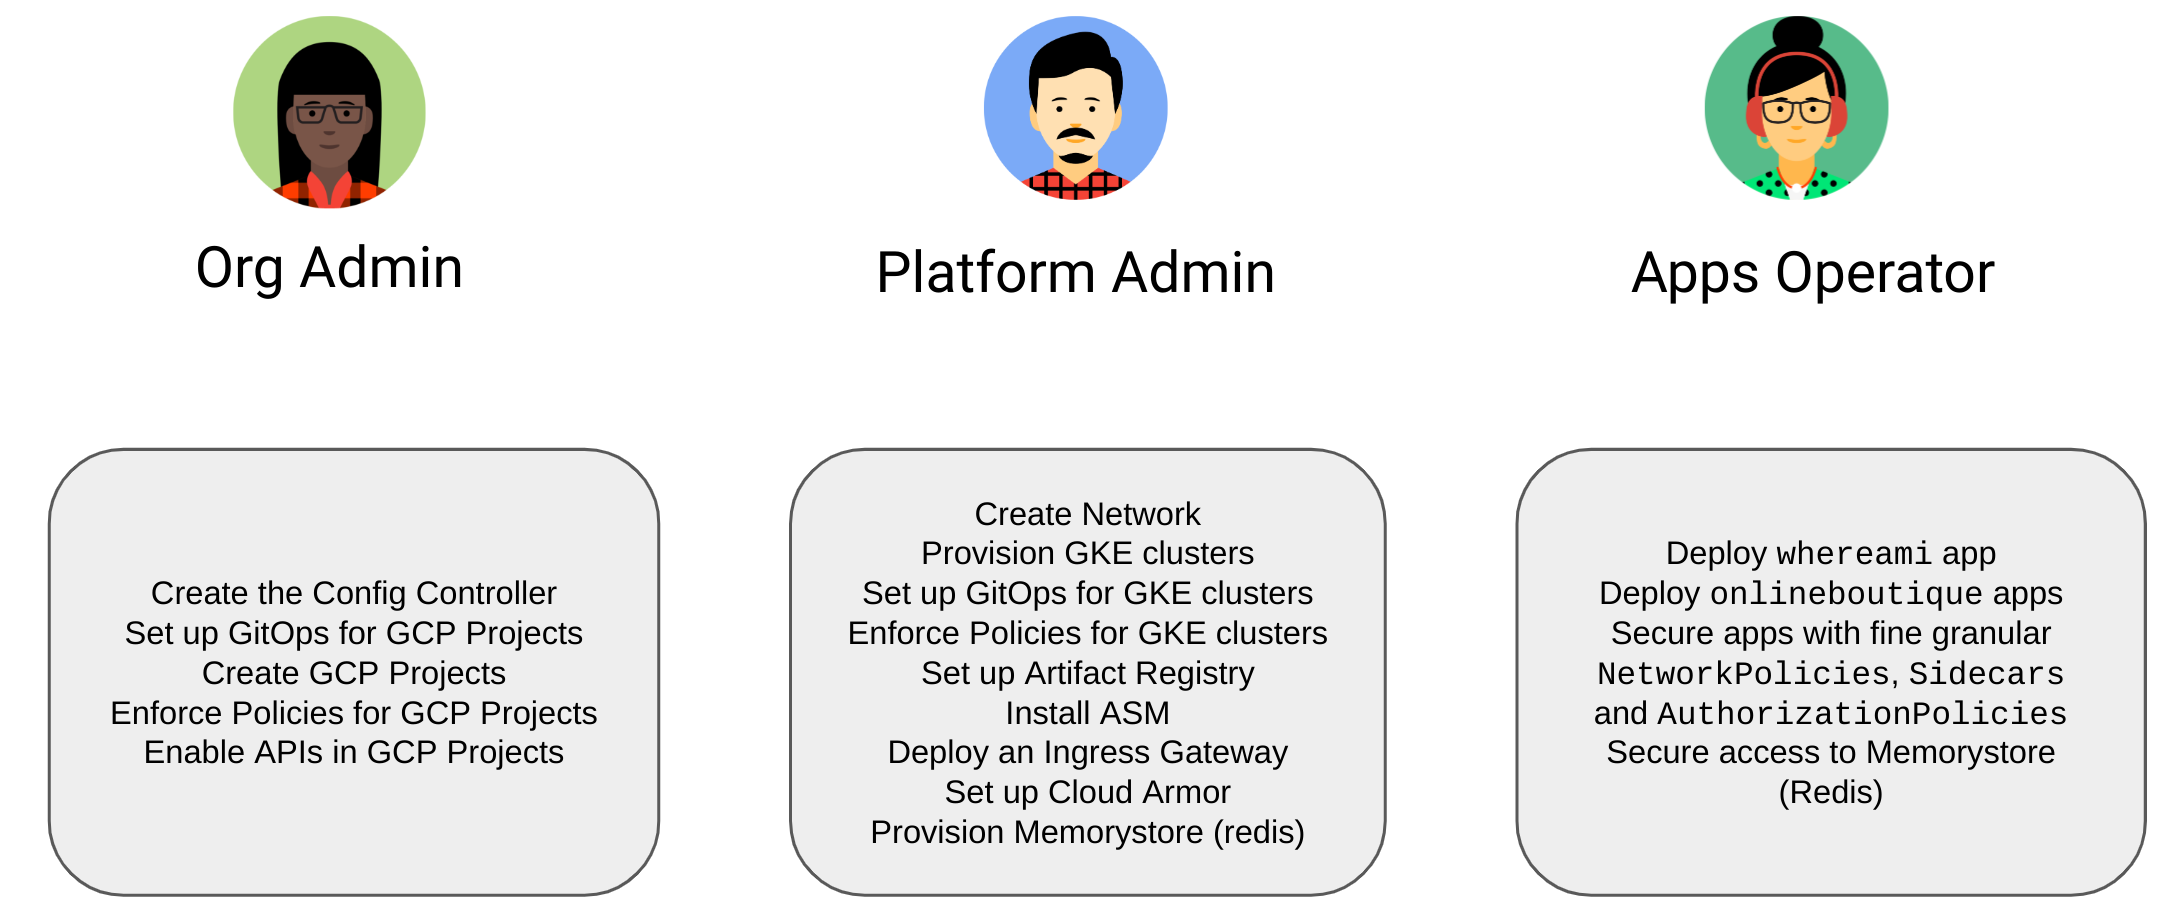
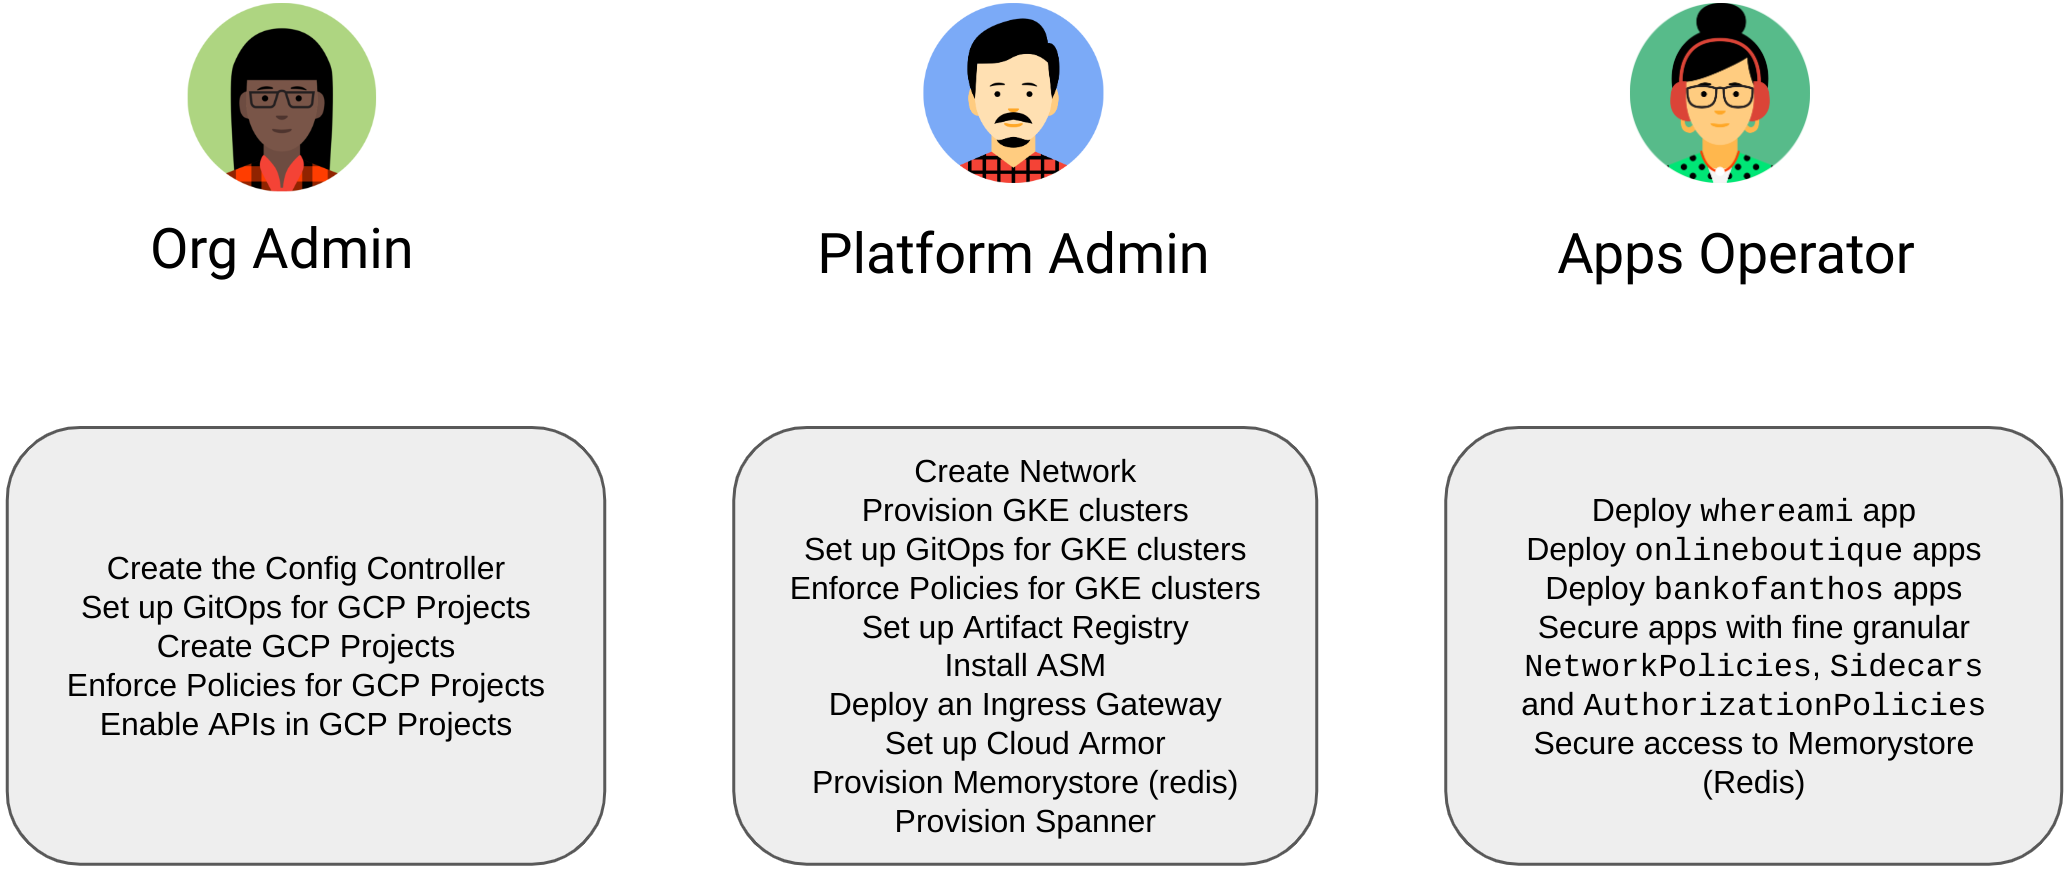
Allo and Create spanner sections

diff --git a/content/onlineboutique/create-spanner.md b/content/onlineboutique/create-spanner.md
@@ -1,0 +1,136 @@
+---
+title: "Create Spanner"
+weight: 14
+description: "Duration: 10 min | Persona: Platform Admin"
+tags: ["kcc", "platform-admin"]
+---
+![Platform Admin](/images/platform-admin.png)
+_{{< param description >}}_
+
+In this section, you will create a Spanner instance and database for the Online Boutique's `cartservice` app to connect to.
+
+Initialize variables:
+```Bash
+WORK_DIR=~/
+source ${WORK_DIR}acm-workshop-variables.sh
+echo "export SPANNER_INSTANCE_NAME=onlineboutique" >> ${WORK_DIR}acm-workshop-variables.sh
+echo "export SPANNER_DATABASE_NAME=carts" >> ${WORK_DIR}acm-workshop-variables.sh
+source ${WORK_DIR}acm-workshop-variables.sh
+```
+
+Create (if not yet existing) a folder dedicated for any resources related Online Boutique specifically: 
+```Bash
+mkdir -p ${WORK_DIR}$TENANT_PROJECT_DIR_NAME/$ONLINEBOUTIQUE_NAMESPACE
+```
+
+## Define Spanner instance
+
+Define the [Spanner instance resource](https://cloud.google.com/config-connector/docs/reference/resource-docs/spanner/spannerinstance):
+```Bash
+cat <<EOF > ${WORK_DIR}$TENANT_PROJECT_DIR_NAME/$ONLINEBOUTIQUE_NAMESPACE/spanner-instance.yaml
+apiVersion: spanner.cnrm.cloud.google.com/v1beta1
+kind: SpannerInstance
+metadata:
+  name: ${SPANNER_INSTANCE_NAME}
+  namespace: ${TENANT_PROJECT_ID}
+spec:
+  config: regional-${GKE_LOCATION}
+  displayName: ${SPANNER_INSTANCE_NAME} spanner instance
+  numNodes: 2
+EOF
+```
+
+## Define Spanner database
+
+Define the [Spanner database resource](https://cloud.google.com/config-connector/docs/reference/resource-docs/spanner/spannerdatabase):
+```Bash
+cat <<EOF > ${WORK_DIR}$TENANT_PROJECT_DIR_NAME/$ONLINEBOUTIQUE_NAMESPACE/spanner-database.yaml
+apiVersion: spanner.cnrm.cloud.google.com/v1beta1
+kind: SpannerDatabase
+metadata:
+  name: ${SPANNER_DATABASE_NAME}
+  namespace: ${TENANT_PROJECT_ID}
+  annotations:
+    config.kubernetes.io/depends-on: spanner.cnrm.cloud.google.com/namespaces/${TENANT_PROJECT_ID}/SpannerInstance/${SPANNER_INSTANCE_NAME}
+spec:
+  instanceRef:
+    name: ${SPANNER_INSTANCE_NAME}
+  databaseDialect: GOOGLE_STANDARD_SQL
+  ddl:
+  - "CREATE TABLE CartItems (userId STRING(1024), productId STRING(1024), quantity INT64,) PRIMARY KEY (userId, productId)"
+  - "CREATE INDEX CartItemsByUserId ON CartItems(userId)"
+EOF
+```
+
+## Grant the `cartservice`'s service account access to the Spanner database
+
+```Bash
+cat <<EOF > ${WORK_DIR}$TENANT_PROJECT_DIR_NAME/$ONLINEBOUTIQUE_NAMESPACE/spanner-db-user-service-account.yaml
+apiVersion: iam.cnrm.cloud.google.com/v1beta1
+kind: IAMServiceAccount
+metadata:
+  name: spanner-db-user
+  namespace: ${TENANT_PROJECT_ID}
+spec:
+  displayName: spanner-db-user
+EOF
+```
+
+```Bash
+cat <<EOF > ${WORK_DIR}$HOST_PROJECT_DIR_NAME/projects/$TENANT_PROJECT_ID/workload-identity-user.yaml
+apiVersion: iam.cnrm.cloud.google.com/v1beta1
+kind: IAMPartialPolicy
+metadata:
+  name: ${TENANT_PROJECT_ID}-sa-wi-user
+  namespace: config-control
+  annotations:
+    config.kubernetes.io/depends-on: iam.cnrm.cloud.google.com/namespaces/config-control/IAMServiceAccount/${TENANT_PROJECT_ID}
+spec:
+  resourceRef:
+    name: ${TENANT_PROJECT_ID}
+    kind: IAMServiceAccount
+  bindings:
+    - role: roles/iam.workloadIdentityUser
+      members:
+        - member: serviceAccount:${HOST_PROJECT_ID}.svc.id.goog[cnrm-system/cnrm-controller-manager-${TENANT_PROJECT_ID}]
+EOF
+```
+
+## Deploy Kubernetes manifests
+
+```Bash
+cd ${WORK_DIR}$TENANT_PROJECT_DIR_NAME/
+git add . && git commit -m "Spanner instance and database" && git push origin main
+```
+
+## Check deployments
+
+{{< mermaid >}}
+graph TD;
+  SpannerInstance-.->Project
+  SpannerDatabase-->SpannerInstance
+{{< /mermaid >}}
+
+List the Kubernetes resources managed by Config Sync in **Config Controller** for the **Tenant project configs** repository:
+```Bash
+gcloud alpha anthos config sync repo describe \
+    --project $HOST_PROJECT_ID \
+    --managed-resources all \
+    --sync-name repo-sync \
+    --sync-namespace $TENANT_PROJECT_ID
+```
+Wait and re-run this command above until you see `"status": "SYNCED"`. All the `managed_resources` listed should have `STATUS: Current` as well.
+
+List the GitHub runs for the **Tenant project configs** repository:
+```Bash
+cd ${WORK_DIR}$TENANT_PROJECT_DIR_NAME && gh run list
+```
+
+List the Google Cloud resources created:
+```Bash
+gcloud spanner instances list \
+    --project=$TENANT_PROJECT_ID
+gcloud spanner databases list \
+    --instance $SPANNER_INSTANCE_NAME \
+    --project=$TENANT_PROJECT_ID
+```

diff --git a/content/onlineboutique/allow-spanner.md b/content/onlineboutique/allow-spanner.md
@@ -1,0 +1,100 @@
+---
+title: "Allow Spanner"
+weight: 13
+description: "Duration: 5 min | Persona: Org Admin"
+tags: ["kcc", "org-admin"]
+---
+![Org Admin](/images/org-admin.png)
+_{{< param description >}}_
+
+In this section, you will enable and grant the appropriate APIs in the Tenant project and the IAM role for the Tenant project's service account. This will allow later this service account to provision a Spanner instance.
+
+Initialize variables:
+```Bash
+WORK_DIR=~/
+source ${WORK_DIR}acm-workshop-variables.sh
+```
+
+## Define API
+
+Define the Spanner API [`Service`](https://cloud.google.com/config-connector/docs/reference/resource-docs/serviceusage/service) resource for the Tenant project:
+```Bash
+cat <<EOF > ${WORK_DIR}$HOST_PROJECT_DIR_NAME/projects/$TENANT_PROJECT_ID/spanner-service.yaml
+apiVersion: serviceusage.cnrm.cloud.google.com/v1beta1
+kind: Service
+metadata:
+  annotations:
+    cnrm.cloud.google.com/deletion-policy: "abandon"
+    cnrm.cloud.google.com/disable-dependent-services: "false"
+    config.kubernetes.io/depends-on: resourcemanager.cnrm.cloud.google.com/namespaces/config-control/Project/${TENANT_PROJECT_ID}
+  name: ${TENANT_PROJECT_ID}-spanner
+  namespace: config-control
+spec:
+  projectRef:
+    name: ${TENANT_PROJECT_ID}
+  resourceID: spanner.googleapis.com
+EOF
+```
+
+## Define role
+
+Define the `spanner.admin` role with an [`IAMPolicyMember`](https://cloud.google.com/config-connector/docs/reference/resource-docs/iam/iampolicymember) for the Tenant project's service account:
+```Bash
+cat <<EOF > ${WORK_DIR}$HOST_PROJECT_DIR_NAME/projects/$TENANT_PROJECT_ID/spanner-admin.yaml
+apiVersion: iam.cnrm.cloud.google.com/v1beta1
+kind: IAMPolicyMember
+metadata:
+  name: spanner-admin-${TENANT_PROJECT_ID}
+  namespace: config-control
+  annotations:
+    config.kubernetes.io/depends-on: iam.cnrm.cloud.google.com/namespaces/config-control/IAMServiceAccount/${TENANT_PROJECT_ID},resourcemanager.cnrm.cloud.google.com/namespaces/config-control/Project/${TENANT_PROJECT_ID}
+spec:
+  memberFrom:
+    serviceAccountRef:
+      name: ${TENANT_PROJECT_ID}
+  role: roles/spanner.admin
+  resourceRef:
+    kind: Project
+    external: projects/${TENANT_PROJECT_ID}
+EOF
+```
+
+## Deploy Kubernetes manifests
+
+```Bash
+cd ${WORK_DIR}$HOST_PROJECT_DIR_NAME/
+git add . && git commit -m "Allow Spanner for Tenant project" && git push origin main
+```
+
+## Check deployments
+
+{{< mermaid >}}
+graph TD;
+  Service-.->Project
+  IAMPolicyMember-.->Project
+  IAMPolicyMember-.->IAMServiceAccount
+{{< /mermaid >}}
+
+List the Kubernetes resources managed by Config Sync in **Config Controller** for the **Host project configs** repository:
+```Bash
+gcloud alpha anthos config sync repo describe \
+    --project $HOST_PROJECT_ID \
+    --managed-resources all \
+    --sync-name root-sync \
+    --sync-namespace config-management-system
+```
+Wait and re-run this command above until you see `"status": "SYNCED"`. All the `managed_resources` listed should have `STATUS: Current` as well.
+
+List the GitHub runs for the **Host project configs** repository:
+```Bash
+cd ${WORK_DIR}$HOST_PROJECT_DIR_NAME && gh run list
+```
+
+List the Google Cloud resources created:
+```Bash
+gcloud projects get-iam-policy $TENANT_PROJECT_ID \
+    --filter="bindings.members:${TENANT_PROJECT_SA_EMAIL}" \
+    --flatten="bindings[].members" \
+    --format="table(bindings.role)" \
+    | grep spanner
+```

diff --git a/content/_index.md b/content/_index.md
@@ -28,16 +28,16 @@ After the workshop, you will be able to:
 - Define clear roles and responsabilities between Org Admin, Platform Admin and Apps Operator
 - Set up a Managed ASM on GKE with a secure Ingress Gateway behind a HTTPS GCLB and Cloud Armor
 - Deploy sample apps such as Whereami, Online Boutique and Bank of Anthos with security best practices including `NetworkPolicies`, `Sidecars` and `AuthorizationPolicies`.
-- Use external managed databases such as Memorystore (Redis) for Online Boutique
+- Use external managed databases such as Memorystore (Redis) and Spanner for Online Boutique
 
 With this workshop, here is what you will accomplish, from scratch:
 
 ![Workshop Architecture diagram](/images/architecture.png)
 
 Recently tested with:
-- GKE 1.24.3-gke.2100
+- GKE 1.24.4-gke.800
 - ASM 1.14.4-asm.2
-- ACM 1.13.0
+- ACM 1.13.1
 - Whereami 1.2.12
 - Online Boutique 0.4.1
 - Bank of Anthos 0.5.9

diff --git a/content/overview/agenda.md b/content/overview/agenda.md
@@ -60,6 +60,9 @@ tags: ["apps-operator", "org-admin", "platform-admin"]
     1. As Platform Admin, create Memorystore (redis) instances with and without TLS in Tenant project
     1. As Apps Operator, configure Online Boutique apps to use Memorystore (redis) instance
     1. As Apps Operator, secure Online Boutique apps to access Memorystore (redis) instance via TLS
+    1. As Org Admin, allow Spanner for Tenant project
+    1. As Platform Admin, create Spanner instance in Tenant project
+    1. As Apps Operator, configure Online Boutique apps to use Spanner instance
 1. Bank of Anthos apps
     1. As Platform Admin, set up DNS for the Bank of Anthos app
     1. As Platform Admin, set up the Bank of Anthos apps's Git repo in GKE cluster
